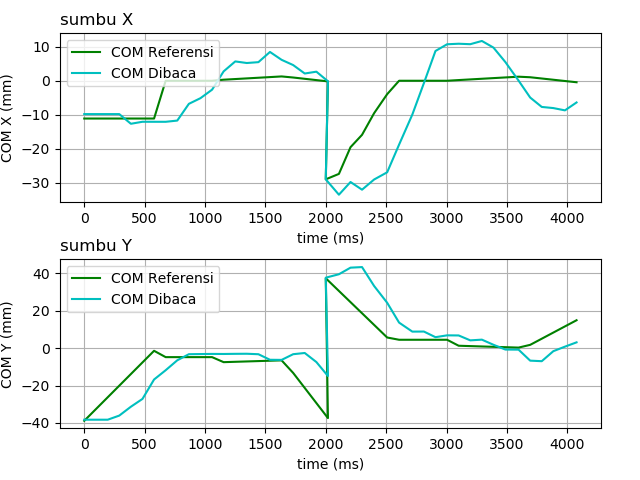
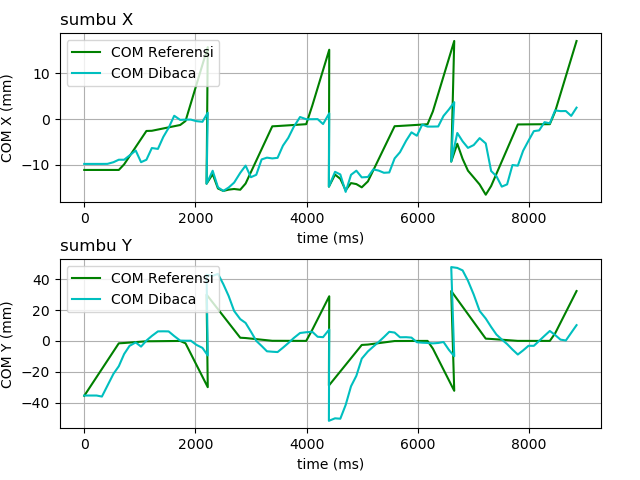
pola bener

diff --git a/scripts/rosCall.py b/scripts/rosCall.py
@@ -606,8 +606,7 @@ def walkUpdate2(robot,dxl,t,tsup,base,xGoal,firstStep,lastStep,condition='normal
             
             pttrn["Xt"],pttrn["Yt"],pttrn["sfx"],pttrn["sfy"],pttrn["sfz"],pttrn["xS"]=Xt,Yt,sfx,sfy,sfz,sfx
         
-        elif firstStep==0: #jika bukan awal melangkah
-            print("hallo")
+        elif firstStep==0: #jika bukan awal melangkahs0000                                                                                                         0
             t1=0
             t2=tsup/4+0.1
             x1=comNow["x"]
@@ -649,8 +648,17 @@ def walkUpdate2(robot,dxl,t,tsup,base,xGoal,firstStep,lastStep,condition='normal
     
     #periode 3
     elif (t>(tsup/2)+0.1) and (t<=(3*tsup/4)+0.15):
-        Xt=((t-(tsup/2))*1/(tsup/4))
-        Yt=(yg*Ytc)-((t-(tsup/2))*(1*yg)/(tsup/4))-3
+        t1=(tsup/2)+0.1
+        t2=(3*tsup/4)+0.15
+        x1=comXPolaPeriod[2]      
+        x2=(xGoal*10/2)+comDef["x"]
+        y1=comYPolaPeriod[2]
+        y2=yg*0 #yg*0 15
+        Xt=round(((t-t1)/(t2-t1)*(x2-x1))+x1,3)
+        Yt=round(((t-t1)/(t2-t1)*(y2-y1))+y1,3)
+
+        # Xt=((t-(tsup/2))*1/(tsup/4))
+        # Yt=(yg*Ytc)-((t-(tsup/2))*(1*yg)/(tsup/4))-3
 
         sfy=0
         sfx= (((xGoal-pttrn["xS"])/(2*3.14))*(((2*3.14*(t-(tsup/4)))/(tsup/2))-sin((2*3.14*(t-(tsup/4)))/(tsup/2))))+pttrn["xS"]
@@ -668,11 +676,11 @@ def walkUpdate2(robot,dxl,t,tsup,base,xGoal,firstStep,lastStep,condition='normal
         print("==================Periode 3=====================")
 
     #periode 4
-    elif (t>(3*tsup/4)+0.15) and (t<=tsup+0.25):
+    elif (t>(3*tsup/4)+0.15) and (t<=tsup+0.1):
         t1=(3*tsup/4)+0.15
-        t2=(tsup)+0.25
+        t2=(tsup)+0.1
         x1=comXPolaPeriod[3]
-        x2=(xGoal*10/2)+comDef["x"]
+        x2=(xGoal*10/2)+comDef["x"]+15
         y1=comYPolaPeriod[3]
         y2=(-yg*comDef["y"])-18
         Xt=round(((t-t1)/(t2-t1)*(x2-x1))+x1,3)
@@ -729,10 +737,6 @@ def walkUpdate3(robot,dxl,t,tsup,base,xGoal,firstStep,lastStep,condition='normal
         elif condition=='virtual':
             COM(robot,dxl,'ka',readAll_leg='virtual')
 
-    swngPlan["xFwd"]=fwdNow["x"]/10
-
-    pttrn["Zt"]=comNow["z"]
-
     print("t:",t)
 
     #periode 1
@@ -741,22 +745,35 @@ def walkUpdate3(robot,dxl,t,tsup,base,xGoal,firstStep,lastStep,condition='normal
             t1=0
             t2=tsup/4+0.1
             y1=-yg*comDef["y"]
-            y2=yg*(-5)
+            y2=yg*0
             Xt=comDef["x"]
             Yt=round(((t-t1)/(t2-t1)*(y2-y1))+y1,3)
+            sfx=0
+            sfy=0
+            sfz=0
+            Zt=comDef["z"]+(t*(17-comDef["z"])/(tsup/4)+0.1)
             
+            pttrn["Xt"],pttrn["Yt"],pttrn["sfx"],pttrn["sfy"],pttrn["sfz"],pttrn["xS"]=Xt,Yt,sfx,sfy,sfz,sfx
+        
         elif firstStep==0: #jika bukan awal melangkah
-          
             t1=0
             t2=tsup/4+0.1
             x1=comNow["x"]
-            x2=comDef["x"]
-            # x2=comXPolaPeriod[4]*(-1)
-            y1=comNow["y"] #-1 karena ganti kaki tumpuan
+            x2=comXPolaPeriod[4]*(-1)
+            y1=comYPolaPeriod[4]*(-1)
             y2=yg*0
+
+            sfx=(fwdNow["x"]/10)-((t*comNow["x"]/10)/((tsup/4)+0.1))
+            print("fwdXNow:",fwdNow["x"])
+            sfy=0
+            sfz=sH-((sH)*(1-sin((3.14*((t-(tsup/4))))/(tsup/2))))
+            if sfz<0:
+                sfz=0
 
             Xt=round(((t-t1)/(t2-t1)*(x2-x1))+x1,3)
             Yt=round(((t-t1)/(t2-t1)*(y2-y1))+y1,3)
+           
+            pttrn["Xt"],pttrn["Yt"],pttrn["sfx"],pttrn["sfy"],pttrn["sfz"],pttrn["xS"]=Xt,Yt,sfx,sfy,sfz,sfx
          
         comXPolaPeriod[1]=Xt
         comYPolaPeriod[1]=Yt
@@ -768,11 +785,27 @@ def walkUpdate3(robot,dxl,t,tsup,base,xGoal,firstStep,lastStep,condition='normal
         t1=(tsup/4)+0.1
         t2=(tsup/2)+0.1
         y1=comYPolaPeriod[1]
-        y2=yg*(-5)
-        Xt=comDef["x"]
+        y2=yg*0  #yg*0
+        x1=comXPolaPeriod[1]
+        x2=(xGoal*10/2)+comDef["x"]
+        Xt=round(((t-t1)/(t2-t1)*(x2-x1))+x1,3)
+        # Xt=comDef["x"]
+        # if firstStep==1:
+        #     Xt=comDef["x"]
+        # elif firstStep==0:
+        #     x1=comXPolaPeriod[1]
+        #     x2=(xGoal*10/2)+comDef["x"]
+        #     Xt=round(((t-t1)/(t2-t1)*(x2-x1))+x1,3)
+
         Yt=round(((t-t1)/(t2-t1)*(y2-y1))+y1,3)
         comXPolaPeriod[2]=Xt
         comYPolaPeriod[2]=Yt
+
+        sfy=0
+        sfx= (((xGoal-pttrn["xS"])/(2*3.14))*(((2*3.14*(t-(tsup/4)))/(tsup/2))-sin((2*3.14*(t-(tsup/4)))/(tsup/2))))+pttrn["xS"]
+        sfz = sH-((sH)*(1-sin((3.14*((t-(tsup/4))))/(tsup/2))))
+
+        pttrn["Xt"],pttrn["Yt"],pttrn["sfx"],pttrn["sfy"],pttrn["sfz"]=Xt,Yt,sfx,sfy,sfz
 
         print("==================Periode 2=====================")
     
@@ -780,97 +813,63 @@ def walkUpdate3(robot,dxl,t,tsup,base,xGoal,firstStep,lastStep,condition='normal
     elif (t>(tsup/2)+0.1) and (t<=(3*tsup/4)+0.15):
         t1=(tsup/2)+0.1
         t2=(3*tsup/4)+0.15
-
-        x1=comXPolaPeriod[2]
-        if firstStep==1:
-            x2=(comDef["x"]+((xGoal*10/2)+comDef["x"]))/2
-        else:
-            x2=(xGoal*10/2)+comDef["x"]
-        # x2=(xGoal*10/2)+comDef["x"]
+        x1=comXPolaPeriod[2]      
+        x2=(xGoal*10/2)+comDef["x"]
         y1=comYPolaPeriod[2]
-        y2=yg*(0) #yg*0
+        y2=yg*0 #yg*0 15
         Xt=round(((t-t1)/(t2-t1)*(x2-x1))+x1,3)
         Yt=round(((t-t1)/(t2-t1)*(y2-y1))+y1,3)
+
+        sfy=0
+        sfx= (((xGoal-pttrn["xS"])/(2*3.14))*(((2*3.14*(t-(tsup/4)))/(tsup/2))-sin((2*3.14*(t-(tsup/4)))/(tsup/2))))+pttrn["xS"]
+        sfz = sH-((sH)*(1-sin((3.14*((t-(tsup/4))))/(tsup/2))))
+        if sfz<0:
+            sfz=0
+
+        if sfx>xGoal:
+            sfx=xGoal
 
         comXPolaPeriod[3]=Xt
         comYPolaPeriod[3]=Yt
         
+        pttrn["Xt"],pttrn["Yt"],pttrn["sfx"],pttrn["sfy"],pttrn["sfz"]=Xt,Yt,sfx,sfy,sfz
         print("==================Periode 3=====================")
 
     # #periode 4
-    elif (t>(3*tsup/4)+0.15) and (t<=tsup+0.25):
-        
-        #jika bukan akhir langkah (akan melanjutkan berjalan kembali)
-        if lastStep==0:
-            
-            t1=(3*tsup/4)+0.15
-            t2=(tsup)+0.25
-            x1=comXPolaPeriod[3]
-            x2=(xGoal*10/2)+comDef["x"]
-            y1=comYPolaPeriod[3]
-            y2=-yg*comDef["y"]
-            Xt=round(((t-t1)/(t2-t1)*(x2-x1))+x1,3)
-            Yt=round(((t-t1)/(t2-t1)*(y2-y1))+y1,3)
-
-
-        #jika akhir langkah dan akan berhenti (kaki sejajar)
-        elif lastStep==1:
-            
-            t1=(3*tsup/4)+0.15
-            t2=(tsup)+0.25
-            x1=comXPolaPeriod[3]
-            x2=comDef["x"]
-            y1=comYPolaPeriod[3]
-            y2=-yg*comDef["y"]
-            Xt=round(((t-t1)/(t2-t1)*(x2-x1))+x1,3)
-            Yt=round(((t-t1)/(t2-t1)*(y2-y1))+y1,3)
-        
-        comXPolaPeriod[4]=Xt
-        comYPolaPeriod[4]=Yt
-        print("==================Periode 4=====================")
-
-
-    #-----------pattern swing------------------------
-    sH=2 #tinggi maksimum langkah
-
-    if t<=(tsup/4):
-        sfx=fwdDef["x"]/10
-        sfy=0
-        sfz=0
-
-    elif t>(tsup/4):
-        t1=tsup/4
-        t2=tsup
-
-        sfx1=fwdDef["x"]/10 #posisi kaki awal sumbu x (cm)
-        sfx2=xGoal #posisi kaki tujuan
-
-        if t<=(5/8)*tsup:
-            tz1=tsup/4
-            tz2=((5/8)*tsup)
-            sfz1=pttrn["sfz"]
-            sfz2=sH
-        elif t>(5/8)*tsup:
-            tz1=((5/8)*tsup)
-            tz2=tsup+0.25
-            sfz1=pttrn["sfz"]
-            sfz2=0
-
-        sfy=0
-        sfx=round(((t-t1)/(t2-t1)*(sfx2-sfx1))+sfx1,3)
-        sfz=round(((t-tz1)/(tz2-tz1)*(sfz2-sfz1))+sfz1,3)
+    elif (t>(3*tsup/4)+0.15) and (t<=tsup+0.1):
+        t1=(3*tsup/4)+0.15
+        t2=(tsup)+0.1
+        x1=comXPolaPeriod[3]
+        x2=(xGoal*10/2)+comDef["x"]+20
+        y1=comYPolaPeriod[3]
+        y2=(-yg*comDef["y"])
+        Xt=round(((t-t1)/(t2-t1)*(x2-x1))+x1,3)
+        Yt=round(((t-t1)/(t2-t1)*(y2-y1))+y1,3)
+        sfx=xGoal+((t-(3*tsup/4))*xGoal/(tsup/4))
+        sfz = sH-((sH)*(1-sin((3.14*((t-(tsup/4))))/(tsup/2))))
         if sfz<0:
             sfz=0
+        if sfx>xGoal:
+            sfx=xGoal
+        sfy=0
+
+        # Xt=((t-(3*tsup/4))*xGoal/(tsup/4))
+        # Yt=(4*yg)-((t-(3*tsup/4))*(4*yg)/(tsup/4))
+        # sfx=xGoal+((t-(3*tsup/4))*xGoal/(tsup/4))
+        # sfz = sH-((sH)*(1-sin((3.14*((t-(tsup/4))))/(tsup/2))))
+        # if sfz<0:
+        #     sfz=0
+
         # if sfx>xGoal:
         #     sfx=xGoal
-    #---------------------------------------------------
+            
+        # sfy=0
 
-    pttrn["Xt"],pttrn["Yt"],pttrn["sfx"],pttrn["sfy"],pttrn["sfz"]=Xt,Yt,sfx,sfy,sfz
-
-    #for swing planning
-    swngPlan["sfx"]=pttrn["sfx"]
-
-    
+        comXPolaPeriod[4]=Xt
+        comYPolaPeriod[4]=Yt
+        pttrn["Xt"],pttrn["Yt"],pttrn["sfx"],pttrn["sfy"],pttrn["sfz"],pttrn["xS"]=Xt,Yt,sfx,sfy,sfz,sfx
+        print("==================Periode 4=====================")    
+        
     print("base kaki kiri" if base==-1 else "base kaki kanan" )
     print("Xt=",Xt)
     print("Yt=",Yt)
@@ -881,6 +880,7 @@ def walkUpdate3(robot,dxl,t,tsup,base,xGoal,firstStep,lastStep,condition='normal
     print("================================================")
 
     # return Xt,Yt,sfx,sfy,sfz
+
 
 def Control(robot,dxl,base,t,condition='normal'):
     t=t/1000000 # ubah t dari microsecond ke second

diff --git a/scripts/main.py b/scripts/main.py
@@ -226,11 +226,11 @@ while(1):
         controlDict["rollBef"],controlDict["pitchBef"]=state1Roll,state1Pitch
 
 firstStep=1
-xGoal=[2,2]
+xGoal=[2,2,2,2]
 n=0
 base=-1 # -1 base kaki kiri, 1 base kaki kanan
 tsmp=0.1 #waktu sampling
-tsup=2 #waktu total satu langkah
+tsup=2.2 #waktu total satu langkah
 lastStep=0
 Q,K=tuningLQRdiskrit('walk') #tuning LQR untuk mendapatkan nilai K
 
@@ -252,7 +252,7 @@ while(1):
     currentMicros=micros()
     t=currentMicros-firstMicros
 
-    walkUpdate2(robot,dxl,t,tsup,base,xGoal[n],firstStep,lastStep)
+    walkUpdate3(robot,dxl,t,tsup,base,xGoal[n],firstStep,lastStep)
     Control3(robot,dxl,base,t,K)
 
     allPttrnXt.append(pttrn["Xt"])
